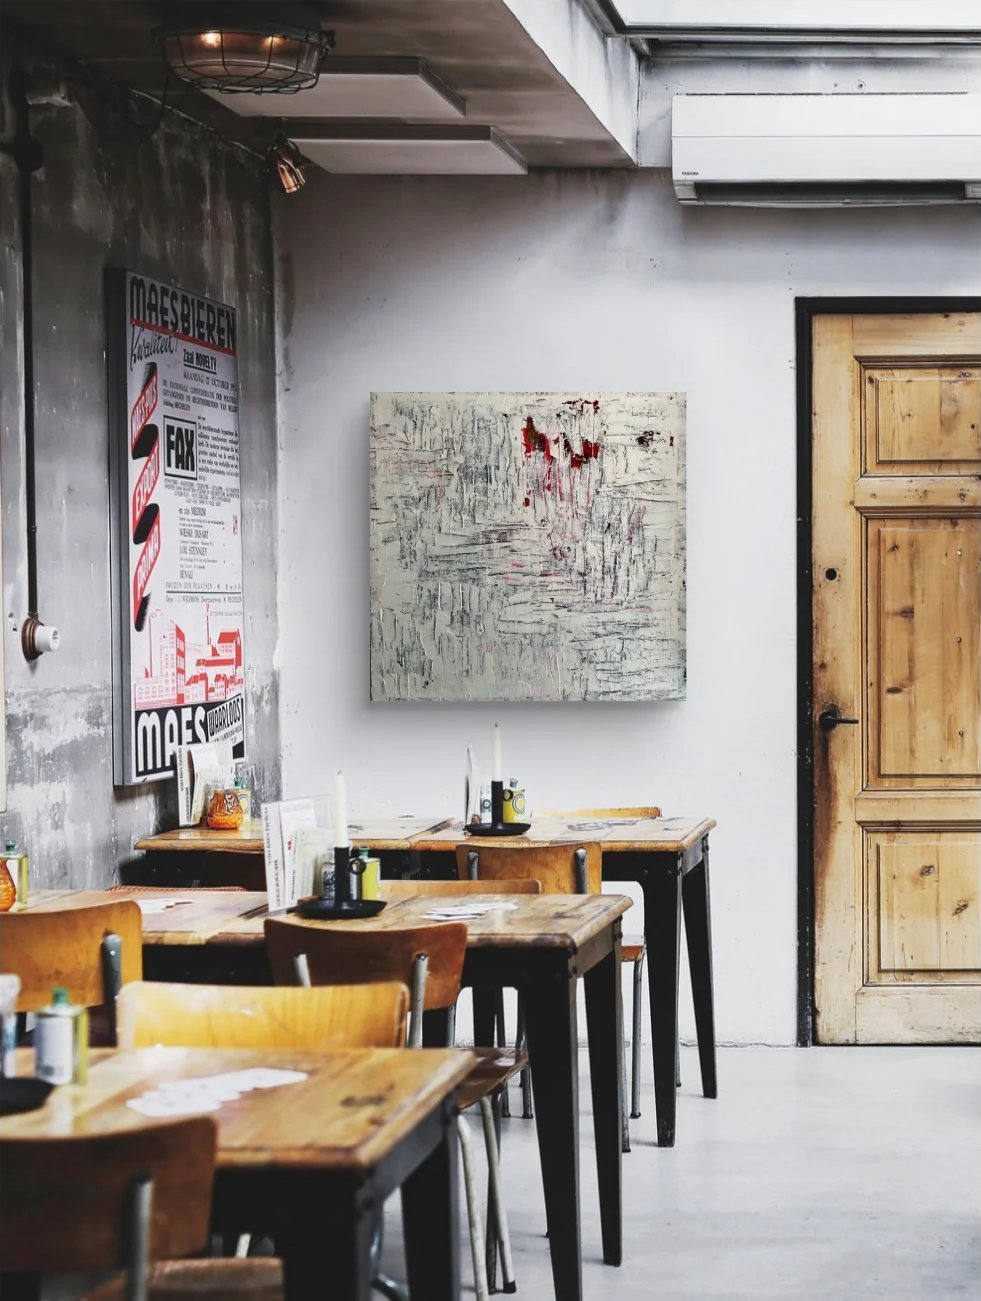
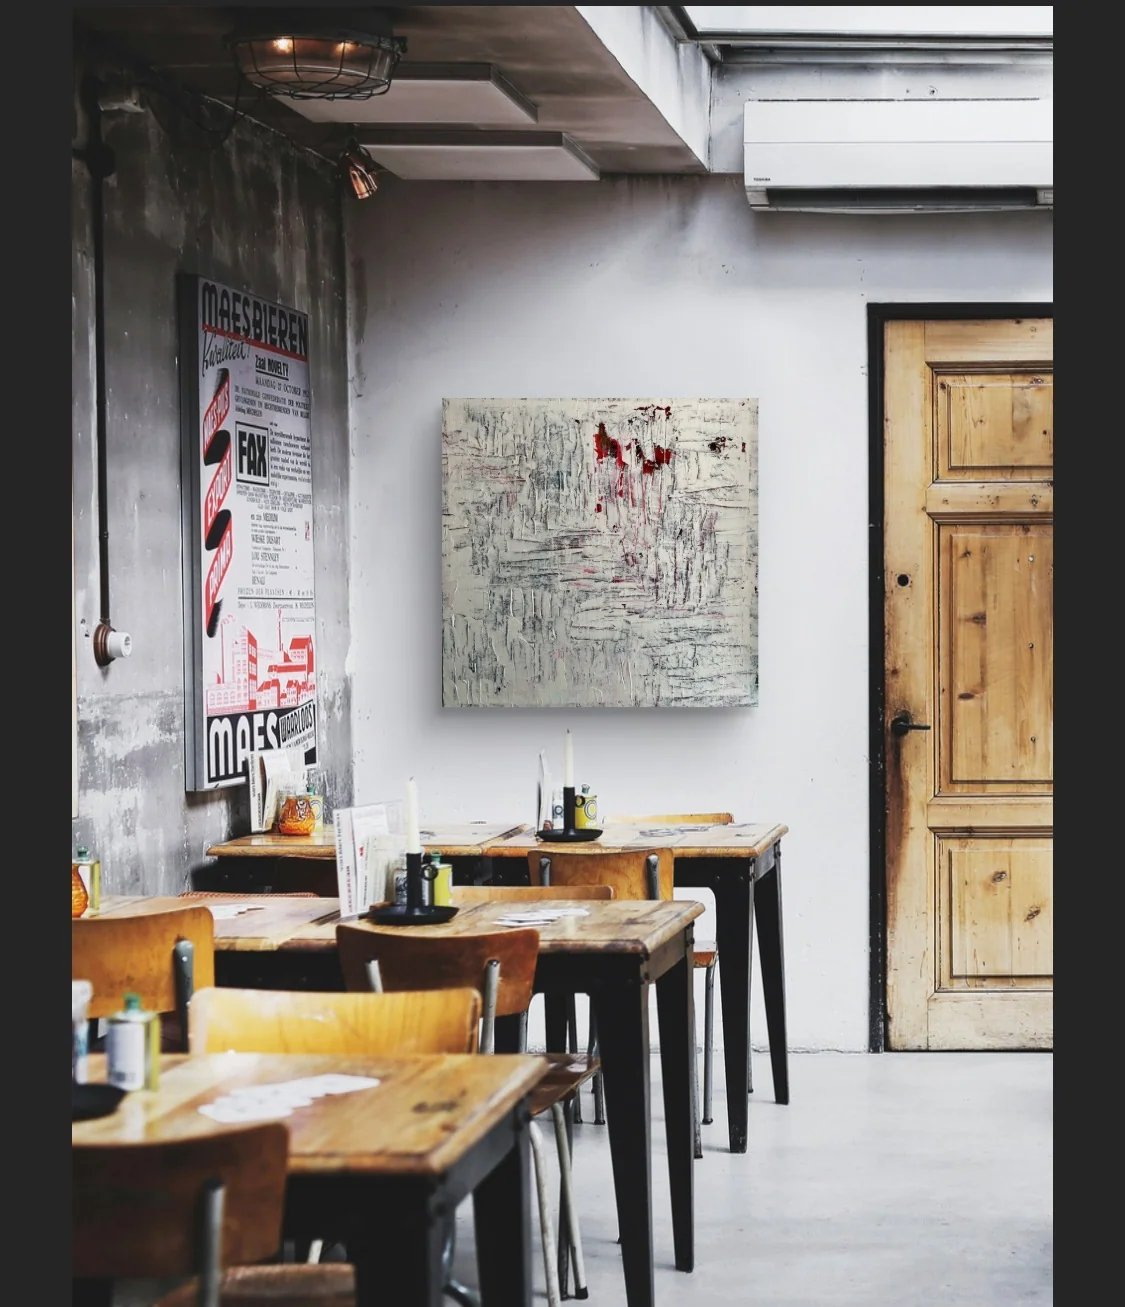
Add files via upload

diff --git a/index.html b/index.html
@@ -11,18 +11,17 @@
 <meta property="og:image" content="https://klbcreative.net/images/logo.png">
 <link rel="preconnect" href="https://fonts.googleapis.com">
 <link rel="preconnect" href="https://fonts.gstatic.com" crossorigin>
-<link href="https://fonts.googleapis.com/css2?family=Fraunces:ital,opsz,wght@0,9..144,340;0,9..144,480;1,9..144,340;1,9..144,480&family=Work+Sans:wght@300;400;500&display=swap" rel="stylesheet">
+<link href="https://fonts.googleapis.com/css2?family=Fraunces:ital,opsz,wght@0,9..144,340;0,9..144,480;0,9..144,600;1,9..144,340;1,9..144,480&family=Work+Sans:wght@300;400;500&display=swap" rel="stylesheet">
 <style>
   /* TIP: the whole site's colors are set here. --accent is the green. */
   :root{
-    --bg: #F1EADA;
-    --paper: #FFFFFF;
-    --ink: #111111;
-    --ink-soft: #5A5A55;
-    --line: #DAD2BD;
-    --accent: #9CA812;     /* logo green */
-    --accent-text: #66700A; /* darker shade of it, for small green text */
-    --accent-soft: #111111;
+    --bg: #FFFFFF;
+    --paper: #F9F9F9;
+    --ink: #131311;
+    --ink-soft: #656560;
+    --line: #DEDEDA;
+    --accent: #2F533A;
+    --accent-soft: #B5B5B0;
   }
 
   * { box-sizing: border-box; margin: 0; padding: 0; }
@@ -39,7 +38,7 @@
 
   h1, h2, h3, .display {
     font-family: 'Fraunces', serif;
-    font-weight: 480;
+    font-weight: 600;
     letter-spacing: -0.01em;
   }
 
@@ -56,7 +55,7 @@
   /* ---- nav ---- */
   header{
     position: sticky; top: 0; z-index: 20;
-    background: rgba(241,234,218,0.92);
+    background: #A4AF3C;
     backdrop-filter: blur(6px);
     border-bottom: 1px solid var(--line);
   }
@@ -129,7 +128,7 @@
   }
   .piece.wide{ grid-column: span 4; }
   .piece.narrow{ grid-column: span 2; }
-  .piece-image{ aspect-ratio: 4/5; overflow: hidden; background: #F7F4EA; }
+  .piece-image{ aspect-ratio: 4/5; overflow: hidden; background: #FFFFFF; }
   .piece-image img{ width: 100%; height: 100%; object-fit: cover; }
   .piece-image.placeholder{
     display: flex; align-items: center; justify-content: center;
@@ -177,7 +176,7 @@
 
   /* ---- contact ---- */
   .contact{
-    background: var(--accent);
+    background: #131311;
     color: var(--paper);
     padding: 90px 0;
   }
@@ -187,7 +186,7 @@
   .contact-links{ display: flex; flex-direction: column; gap: 12px; justify-content: center; margin-top: 26px; }
   .contact-links a{
     text-decoration: none; font-size: 0.95rem;
-    border-bottom: 1px solid rgba(255,255,255,0.4);
+    border-bottom: 1px solid rgba(246,244,236,0.35);
     padding-bottom: 5px; width: fit-content;
   }
   .contact-links a:hover{ border-color: var(--paper); }
@@ -200,7 +199,7 @@
   .contact-form input, .contact-form textarea{
     background: transparent;
     border: none;
-    border-bottom: 1px solid rgba(255,255,255,0.45);
+    border-bottom: 1px solid rgba(246,244,236,0.4);
     color: var(--paper);
     font-family: 'Work Sans', sans-serif;
     font-size: 1rem;
@@ -216,8 +215,8 @@
     margin-top: 22px;
     width: fit-content;
     padding: 12px 28px;
-    background: var(--paper);
-    color: var(--accent);
+    background: #2D4F37;
+    color: #FFFFFF;
     border: none;
     font-family: 'Work Sans', sans-serif;
     font-size: 0.95rem;
@@ -263,17 +262,10 @@
   .viewer button{ font: inherit; background: var(--paper); color: var(--ink); border: 0; padding: 9px 20px; cursor: pointer; }
   .viewer button:hover{ opacity: .85; }
 
-  /* ---- green section: black text so it stays readable on the logo green ---- */
-  .about-text .label, .pull, .price.sold{ color: var(--accent-text); }
-  :focus-visible{ outline-color: var(--accent-text); }
-  .contact, .contact h2, .contact p{ color: var(--ink); }
-  .contact-links a{ border-bottom-color: rgba(17,17,17,.4); }
-  .contact-links a:hover{ border-bottom-color: var(--ink); }
-  .contact-form input, .contact-form textarea{ color: var(--ink); border-bottom-color: rgba(17,17,17,.5); }
-  .contact-form input:focus, .contact-form textarea:focus{ border-bottom-color: var(--ink); }
-  .btn-light{ background: #fff; color: var(--ink); }
-  .wordmark{ display: inline-flex; align-items: center; gap: 12px; text-decoration: none; }
-  .wordmark img{ border-radius: 50%; }
+  .wordmark{ font-family: "Work Sans", sans-serif; font-style: normal; font-weight: 500; font-size: 1.5rem; text-decoration: underline; text-underline-offset: 3px; }
+  .navlinks{ font-size: 1.1rem; }
+  header{ border-bottom: 0; }
+  @media (max-width: 640px){ .nav{ padding: 14px 20px; } .navlinks{ gap: 14px; font-size: .88rem; } .wordmark{ font-size: 1.2rem; } }
 </style>
 
 </head>
@@ -281,7 +273,7 @@
 
 <header>
   <nav class="nav">
-    <a href="#top" class="wordmark"><img src="images/logo-mark.png" alt="" width="36" height="36">klb.creative</a>
+    <a href="#top" class="wordmark">klb.creative</a>
     <ul class="navlinks">
       <li><a href="#shop">shop</a></li>
       <li><a href="#about">about</a></li>
@@ -450,15 +442,16 @@
     return art;
   }
 
-  // Layout: two paintings per row (one per row on phones).
+  // Layout: same wide / narrow rhythm as before.
   fetch('content/paintings.json', { cache: 'no-cache' })
     .then(function(r){ if (!r.ok) throw new Error('missing'); return r.json(); })
     .then(function(data){
       var list = (data && data.paintings) || [];
       var grid = document.getElementById('gallery');
       grid.textContent = '';
-      list.forEach(function(p){ grid.appendChild(card(p, '')); });
-      if (list.length % 2 === 1) grid.appendChild(el('div', 'piece filler'));
+      var pattern = ['wide', 'narrow', 'narrow', 'wide'];
+      list.forEach(function(p, i){ grid.appendChild(card(p, pattern[i % 4])); });
+      if (list.length % 2 === 1) grid.appendChild(el('div', 'piece filler ' + (pattern[(list.length - 1) % 4] === 'wide' ? 'narrow' : 'wide')));
       if (!list.length) grid.appendChild(el('p', 'loading', 'New work coming soon.'));
     })
     .catch(function(){
